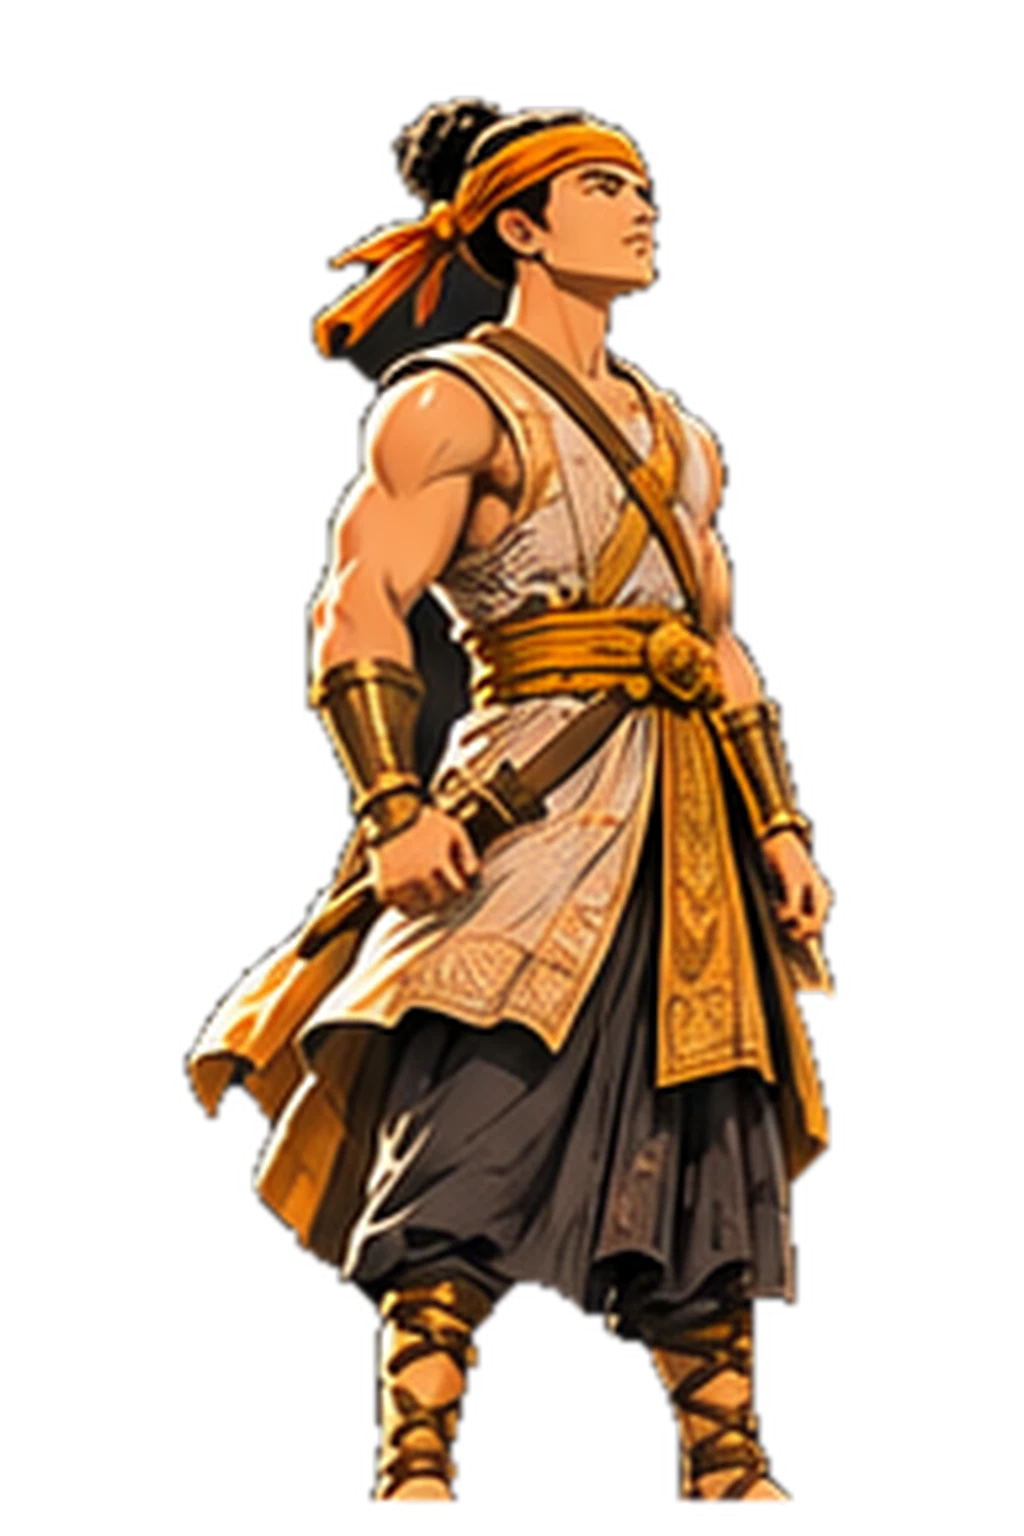
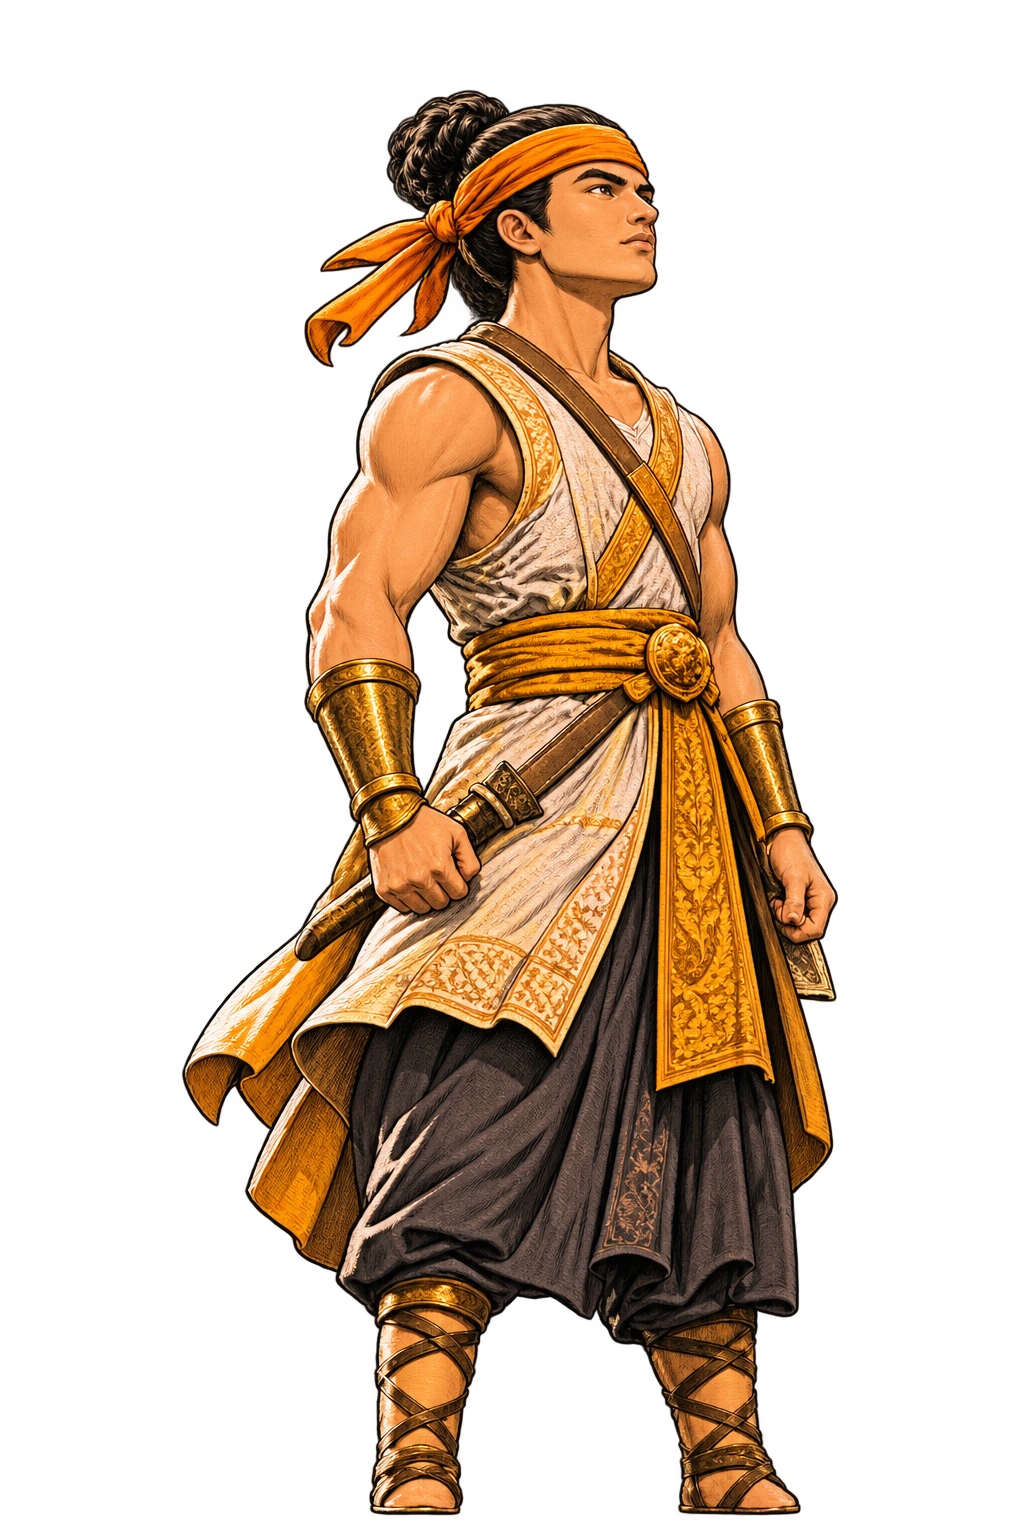
Improve detail in Nga Pyae Wa’s full-body artwork

Changed region(s): [[0.1562, 0.0625, 0.8125, 1.0]]

diff --git a/characters-cinematic.js b/characters-cinematic.js
@@ -56,7 +56,7 @@
     'nyaung-u-hpi': '20261125-individual-art',
     'nga-htwe-yu': '20261125-individual-art',
     'mg-kyan': '20261125-bow-portrait-restore',
-    'nga-pyae-wa': '20261125-bow-portrait-restore',
+    'nga-pyae-wa': '20261126-detail-restoration',
     'nga-nyo': '20261125-relaxed-bow'
   };
   const portraitVersions = {
